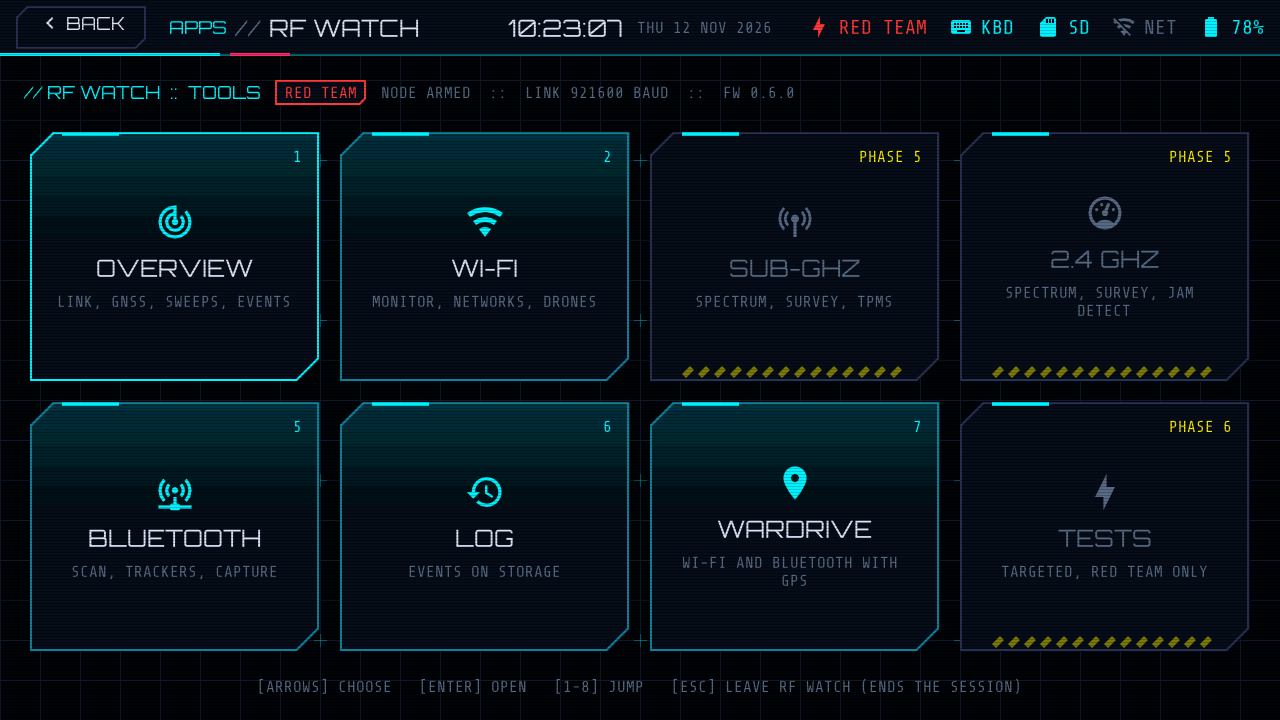
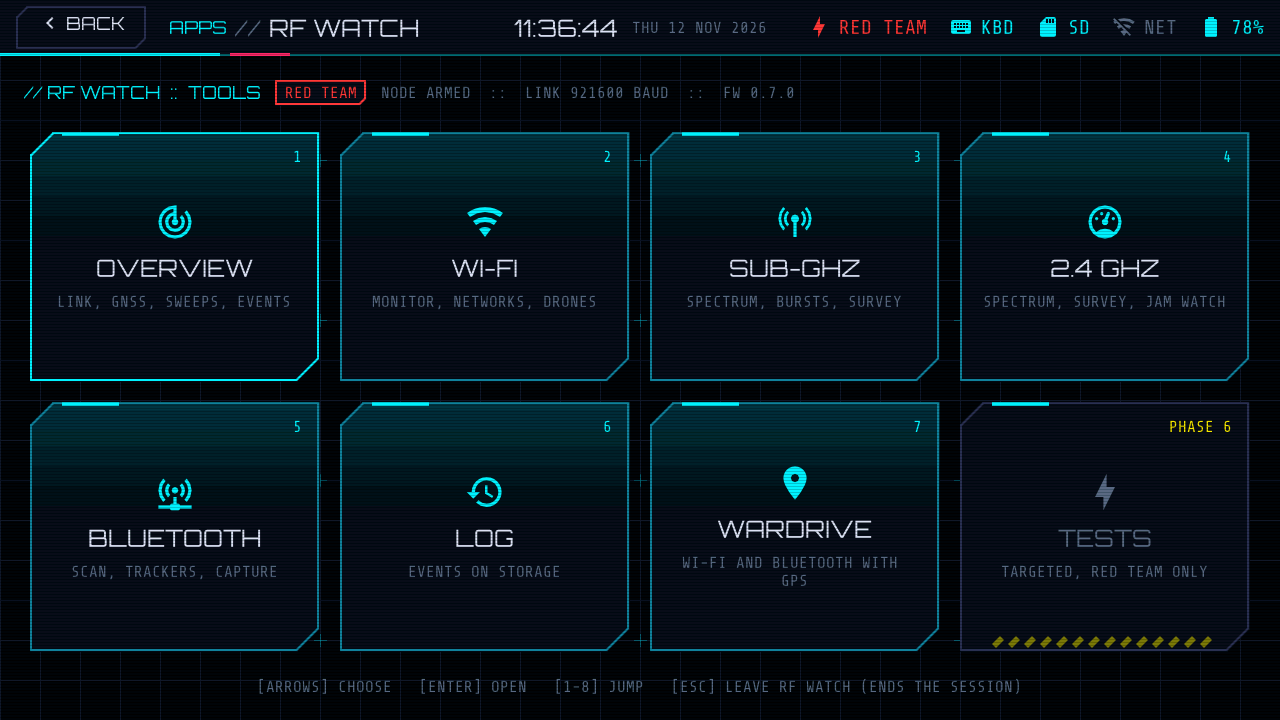
Phase 5 documents, screenshots and hardware checkpoint

diff --git a/ROADMAP.md b/ROADMAP.md
@@ -213,10 +213,15 @@ adds a tool behind one of the placeholder tiles.
 - [ ] Still to check for phase 3: a phone joining the honeypot (the join warning), a capture opened in Wireshark, and each detector against a staged attack once phase 6 can produce one
 - [x] Phase 4, WARDRIVE (with rf-sentinel 0.6.0): one key starts a drive; the C5 hops every Wi-Fi channel with its Bluetooth scan beside it, listening only, and the deck writes access points and Bluetooth devices with the GPS position to `sentinel/wigle-<time>.csv` in WiGLE's format, plus the 433 MHz and 2.4 GHz bands to `sentinel/survey-<time>.csv`. A row needs a place and a time from the GPS; one row per device per place and again after 25 m; networks that opt out of mapping and Bluetooth addresses that rotate are never written. Back from a tool now returns to the tools page by every route
 - [x] Checkpoint on hardware for phase 4 (2026-11-12, rf-sentinel 0.6.0 on the C5): the drive tool granted within five seconds; with no fix on the bench (0 satellites indoors) both files were created with their headers and nothing else, about a thousand sightings counted as "no fix" in 90 s. With a bench-only pretend fix to exercise the rest: 100 access points on 19 channels of both bands and 48 Bluetooth devices on file in 50 s, 549 rows, every row 14 columns, 10 survey rows, nothing lost on the way to the card, no bad frames at 921600 baud, 3.2 KB of the reader's stack and 5.0 KB of the writer's never used. The pretend files were deleted. The same run started in the middle of the node's presence scan, which is what found the hopping fault below
-- [x] Found on that bench and fixed: a hopping tool (WI-FI or WARDRIVE) started during the C5's presence scan lost 37 of its 38 channels until the C5 restarted; and one run of four had two frames fail their checksum at 921600 baud (not seen again, cause not found)
+- [x] Found on that bench and fixed: a hopping tool (WI-FI or WARDRIVE) started during the C5's presence scan lost 37 of its 38 channels until the C5 restarted. One run of four also had two frames fail their checksum at 921600 baud: found and fixed in phase 5 (the UART interrupt's headroom)
 - [ ] Still to check for phase 4, outdoors: a drive with a real fix (true positions, the 25 m rule on foot and in a car, the GPS date after a cold start), a file uploaded to wigle.net and accepted, and an hour-long drive for the count of bad frames and lost rows
 - [ ] WARDRIVE: leave out devices marked as mine in BLUETOOTH (headphones with a fixed address are written every 25 m of a drive)
-- [ ] Phase 5, SUB-GHZ and 2.4 GHZ: spectrum analyzer with history, IoT site survey, TPMS (433.92 MHz), jam detection
+- [x] Phase 5, SUB-GHZ and 2.4 GHZ (with rf-sentinel 0.7.0): both bands as spectrum analyzers with a waterfall and per-channel statistics; a burst listener that parks the CC1101 on one frequency and times what transmits there, grouping repeats into emitters with a period; a site survey of both bands to `sentinel/site-<time>.csv`; which of Wi-Fi channels 1, 6 and 11 carries the least energy; a jam watch in the background (the 433 MHz band rising together, 2.4 GHz saturated, and whether Bluetooth or the GPS went down with it). A band-wide step is one event and is never learned as normal; 2.4 GHz no longer warns per channel
+- [x] Checkpoint on hardware for phase 5 (2026-11-12, rf-sentinel 0.7.0 on the C5): the sweep and the listener switch over and back, a 150-line site file written with no fix (blank position, the deck's clock), the quietest Wi-Fi channel by energy agreeing run to run (channel 1 at about 0.5 of 8, against 1.0 and 0.9), and ten idle minutes in a flat full of Wi-Fi with no band or jam warning. The node sweeps 433 MHz about twice a second and reports 2.4 GHz every five seconds, so the waterfalls hold about a minute and a half and five minutes
+- [x] Found on that bench and fixed: the burst listener went deaf after its first moment (the CC1101 leaves receive when it takes noise for a packet, and its signal strength reading freezes); then, once it could hear, it called single noise spikes bursts, about one a second (now four strong samples make a burst: one row in a minute instead of 73); and the link lost a pair of frames every few minutes at 921600 baud because the Tab5's UART interrupt fired with 87 microseconds of FIFO left (four bad frames in nine minutes before, none in thirteen after)
+- [ ] Still to check for phase 5: BURSTS against a transmitter that is known to be there (a 433.92 MHz remote or weather sensor next to the deck: its length and period are the test), and the jam watch against anything real, which this project will never produce: it rests on its tests and on staying silent
+- [ ] Switching the CC1101 front end off and on from the Tab5 moved nothing measurable, so the 26 warnings seen on 2026-11-11 at a deck restart were not from that; the cause was not found, and the restart now makes the node learn again, which hides it
+- [ ] TPMS decode at 433.92 MHz against a known sensor (US sensors are 315 MHz, out of this module's range), and Zigbee or Thread through the C5's 802.15.4 radio
 - [ ] Phase 6: targeted deauth test (one network, one client, a permission warning on every run, a counted burst) and a self test per radio
 - [ ] A learned baseline on the deck, tagged with the GPS position it was learned at, so alerts are about change at this spot
 - [ ] Thresholds and the banner's behaviour in SETTINGS; quiet mode for the board when the screen sleeps

diff --git a/docs/superpowers/specs/2026-11-12-sentinel-suite-phase5-bands-design.md b/docs/superpowers/specs/2026-11-12-sentinel-suite-phase5-bands-design.md
@@ -10,8 +10,8 @@ decisions below are assumptions and are his to overrule.
 **SUB-GHZ** (tile 3), two views:
 
 - **SPECTRUM**: the 433 MHz band as the CC1101 sweeps it (21 channels,
-  433.0 to 435.0 MHz): the latest sweep with peak hold, a minute of history
-  as a waterfall, and for the selected channel its floor, mean, peak and how
+  433.0 to 435.0 MHz): the latest sweep with peak hold, the last minute or
+  so as a waterfall, and for the selected channel its floor, mean, peak and how
   often it was busy.
 - **BURSTS**: the CC1101 stops sweeping and listens to one frequency
   (433.92 MHz unless changed), timing every transmission it hears: when,
@@ -21,8 +21,8 @@ decisions below are assumptions and are his to overrule.
   remote shows up.
 
 **2.4 GHZ** (tile 4): the band as the nRF24 sees it (126 channels of
-carrier detect, 2400 to 2525 MHz): the latest report, two minutes of
-history as a waterfall, where Wi-Fi channels 1, 6 and 11 and the three
+carrier detect, 2400 to 2525 MHz): the latest report, the last sixty
+reports (about five minutes) as a waterfall, where Wi-Fi channels 1, 6 and 11 and the three
 Bluetooth advertising channels sit, and which of 1, 6 and 11 carries the
 least energy (the WI-FI tool answers the same question by counting access
 points; this one measures).
@@ -88,14 +88,50 @@ alarm coincides with the GPS losing satellites or signal, the warning says
 | Direction | Sentence | Meaning |
 |---|---|---|
 | node to host | `HELLO,...,sub=1` | this node has the band watch, `LEARN` and the burst listener |
-| node to host | `BND,<sub or nrf>,<0 normal, 1 up, 2 low>,<channels>,<dB>` | a band's state, on change and every 10 s while it is not normal |
+| node to host | `BND,<sub or nrf>,<0 normal, 1 up, 2 low>,<channels>,<dB>` | a band's state, on change and every 10 s |
 | node to host | `SBD,<kHz>,<floor dBm>,<bursts>` | the burst listener is on this frequency; every 2 s. `SBD,0,0,0` once when it stops |
-| node to host | `BRS,<kHz>,<ms long>,<peak dBm>,<ms since the last one ended>` | one burst, when it ends (or every 5 s while a carrier stays up) |
+| node to host | `BRS,<kHz>,<ms long>,<peak dBm>,<ms since the last one ended>,<0 or 1>` | one burst, when it ends; `1` for a carrier still up, sent every 5 s while it lasts |
 | host to node | `CMD,LEARN` | what you hear now is normal: start both baselines again |
 | host to node | `CMD,SUB,sweep` / `CMD,SUB,dwell,<kHz>` | sweep the band, or listen to one frequency (433000 to 435000) |
 
 Fixed on the way: the first sweep after boot reported +120 dBm on
 433.0 MHz (the RSSI conversion wrapped below -128).
+
+## As built (2026-11-12)
+
+- Measured on the node: with everything else it does, a 433 MHz sweep comes
+  round about twice a second and a 2.4 GHz report every five seconds or so.
+  So the waterfalls hold about a minute and a half and about five minutes,
+  the baseline's warm-up is about 40 s, "two sweeps running" is a second
+  and "two reports running" is ten.
+- Found on the bench and by review, and fixed:
+  - The burst listener was deaf after its first moment. The CC1101 leaves
+    receive when it takes noise for a packet, and its signal strength
+    reading then freezes. The listener now asks for a sync word (so noise is
+    rarely a packet) and puts the chip back into receive whenever it finds
+    it has left.
+  - Once it could hear, it called single noise spikes bursts: about one a
+    second, a millisecond long, 5 to 9 dB over the floor. A burst now needs
+    four strong samples (two milliseconds on the node).
+  - A signal that rises and stays is taken for the new floor after about
+    half a minute, instead of being a carrier that hides every burst for
+    good.
+  - While the listener has the radio the band's state is not known, so an
+    alarm is not left standing; and band rows are sent every 10 s whatever
+    the state, so a lost "back to normal" cannot leave a host believing an
+    alarm.
+  - The jam verdict is dropped when the link is lost.
+  - Statistics are exact over any length of run (a float running sum stops
+    adding -100 exactly after eleven hours).
+  - A survey with nothing swept is not written; a band with nothing swept
+    has blank rows, not zeros.
+- The link at 921600 baud lost a pair of frames every few minutes. The
+  Tab5's UART interrupt fired with 8 bytes of FIFO left, which at that rate
+  is 87 microseconds. It now fires with 96 left, and stays in RAM so a
+  flash write cannot hold it off.
+- Switching the CC1101's front end off and on from the Tab5 (the 2026-11-11
+  case) moved nothing measurable on this board, so the "band went quiet"
+  rule could not be seen on hardware and rests on its tests.
 
 ## Where the code goes
 

diff --git a/README.md b/README.md
@@ -75,8 +75,33 @@ surveillance devices (Flock by name, Axon by address prefix) in red. `F`
 filters, `M` marks a device as yours so it never alerts, `C` records every
 advertisement to a pcap file on the SD card. The scan is passive: the C5
 sends nothing. **LOG** shows today's events from storage, newest first, with
-where the deck was. SUB-GHZ, 2.4 GHZ and TESTS are placeholders for the
-phases in the rf-sentinel ROADMAP.
+where the deck was. TESTS is a placeholder for the last phase in the
+rf-sentinel ROADMAP.
+
+**SUB-GHZ** and **2.4 GHZ** are spectrum analyzers for the two bands the
+board has radios of its own for. SUB-GHZ > SPECTRUM draws the CC1101's sweep
+of 433.0 to 435.0 MHz with peak hold and the last minute or so as a
+waterfall, and gives the selected channel's floor, mean, peak and how often
+it was busy. SUB-GHZ > BURSTS parks the CC1101 on one frequency (433.92 MHz
+unless you tune it) and times every transmission there: how long, how
+strong, how long since the last. Bursts of the same shape are grouped into
+emitters, and one that keeps a rhythm gets its period ("every 43 s"): that
+is how a weather station, a remote or a tyre sensor shows up. It reads
+shapes, not contents; nothing is decoded. 2.4 GHZ draws the nRF24's view of
+2400 to 2525 MHz with its last sixty reports (about five minutes), marks where Wi-Fi channels 1,
+6 and 11 and the Bluetooth advertising channels sit, and says which of the
+three Wi-Fi channels carries the least energy. In both, `S` runs a site
+survey (a minute of both bands, then `sentinel/site-<time>.csv` with every
+channel's floor, mean, peak and busy share) and `B` tells the board that
+what it hears now is normal here.
+
+The **jam watch** runs in the background in any app. The board warns once
+when half the 433 MHz band rises together, or when 40 or more of the 126
+2.4 GHz channels are solid (busy Wi-Fi does not come near that: the most
+measured in a flat full of it was 4). The deck then adds what else it
+knows: saturation with Bluetooth fallen to a quarter of its usual rate, or
+either alarm with the GPS losing satellites or signal, is reported as
+likely jamming and names both. RF WATCH detects jamming; it never does it.
 
 **WARDRIVE** writes down what the deck hears and where. `Enter` starts a
 drive and `Enter` again, or leaving the screen, ends it. The C5 hops every
@@ -140,6 +165,10 @@ keyboard and nothing makes a sound. Switching the app off cuts EXT5V.
 | BLUETOOTH | WARDRIVE |
 |---|---|
 | ![RF WATCH Bluetooth](docs/screenshots/rf_bluetooth.png) | ![RF WATCH wardrive](docs/screenshots/rf_wardrive.png) |
+
+| SUB-GHZ spectrum | SUB-GHZ bursts | 2.4 GHZ |
+|---|---|---|
+| ![RF WATCH sub-GHz](docs/screenshots/rf_subghz.png) | ![RF WATCH bursts](docs/screenshots/rf_bursts.png) | ![RF WATCH 2.4 GHz](docs/screenshots/rf_2g4.png) |
 
 The protocol, the state record, the link state machine and the log formats
 are `sentinel_core`, a portable library in the rf-sentinel repo that the C5
